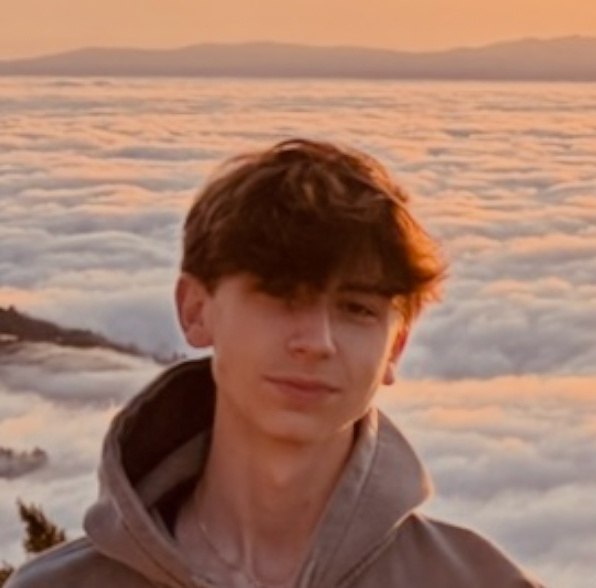
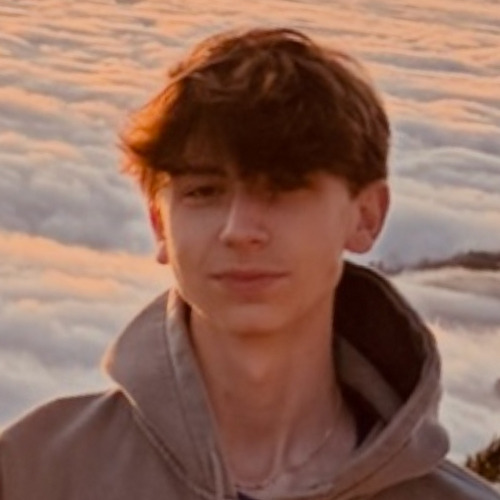
Level and tighten portrait crop

diff --git a/index.html b/index.html
@@ -12,8 +12,8 @@
     <meta property="og:title" content="Max Manolov">
     <meta property="og:description" content="Max Manolov is an AI researcher and the co-founder and CTO of Superaligned.">
     <meta property="og:image" content="https://maxmanolov.com/photo.jpg">
-    <meta property="og:image:width" content="596">
-    <meta property="og:image:height" content="588">
+    <meta property="og:image:width" content="500">
+    <meta property="og:image:height" content="500">
     <meta property="og:image:alt" content="Portrait of Max Manolov">
     <meta name="twitter:card" content="summary">
 
@@ -28,7 +28,7 @@
     </header>
 
     <main>
-      <img class="portrait" src="photo.jpg" width="596" height="588" alt="Portrait of Max Manolov">
+      <img class="portrait" src="photo.jpg" width="500" height="500" alt="Portrait of Max Manolov">
 
       <div class="bio">
         <p>I am an AI researcher from the United States.</p>
